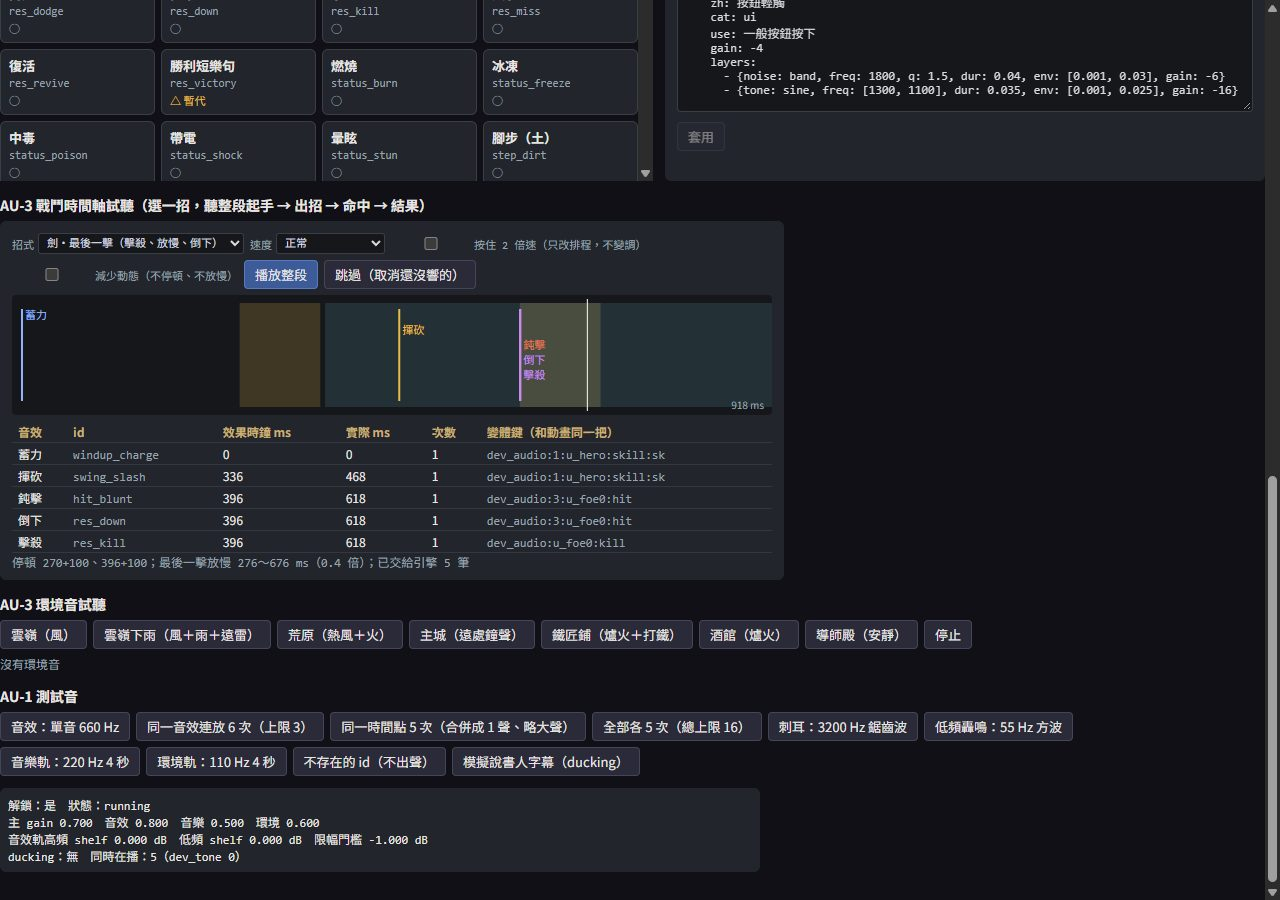
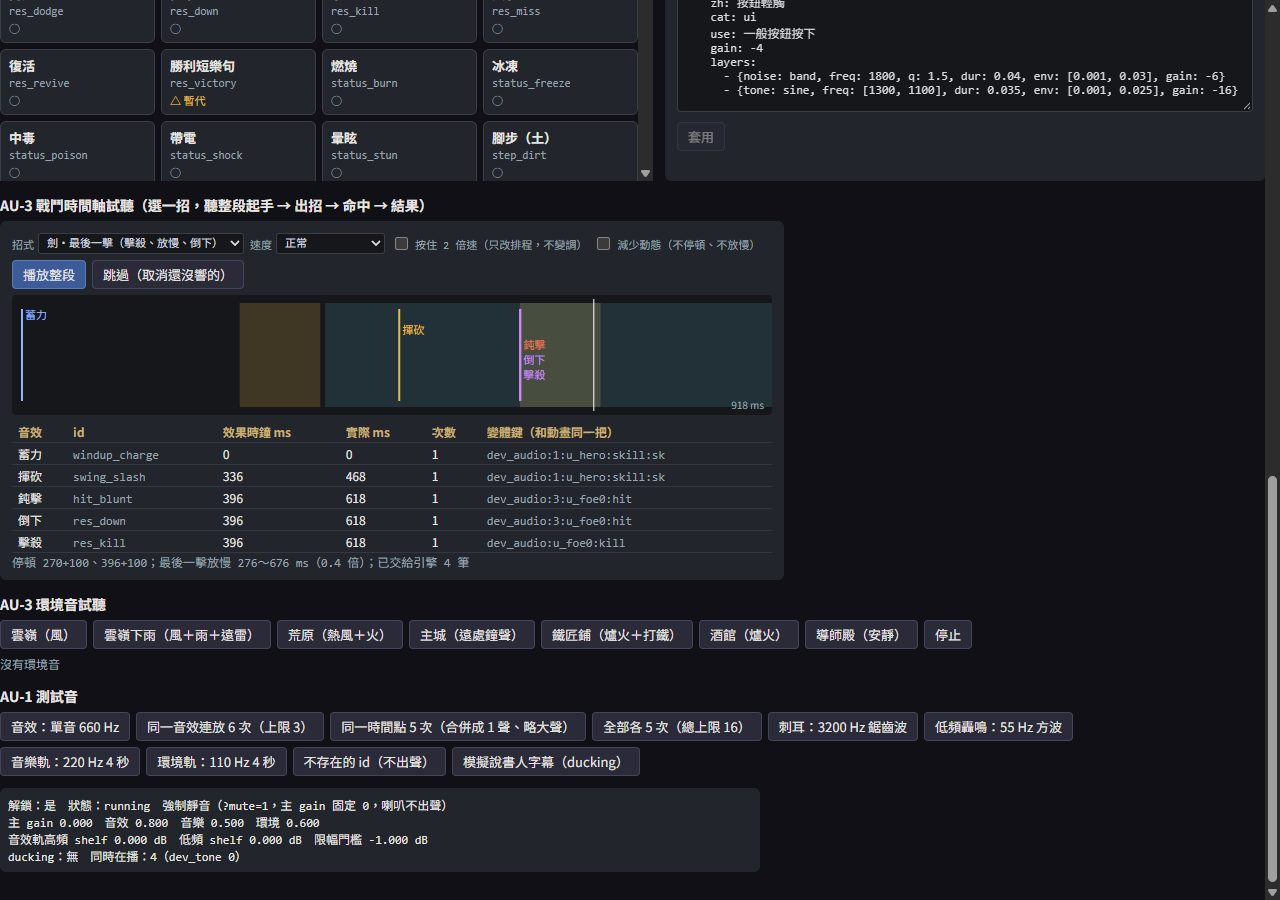
docs: AU-3 report (battle timeline sfx, footsteps, ambience)

Changed region(s): [[0.0, 0.2489, 0.5938, 0.3422], [0.125, 0.8711, 0.3438, 0.9022]]

diff --git a/docs/phases/PhaseAU-3報告.md b/docs/phases/PhaseAU-3報告.md
@@ -1,0 +1,145 @@
+# Phase AU-3 報告：接上戰鬥與探索
+
+實作者，2026-11-04。分支 `worktree-agent-a0b8205a897824fa9`，開工時 `git merge --ff-only 72848d18`（含 AU-2、6H-1、6R-F、RT-2）。
+規格：`docs/art/音效與音樂方案.md` 2.1、2.3、4 節；`docs/art/AU-2檢查.md` 的美術 PM 指示；派工六點。
+
+只改了 `client/` 與 `content/audio/sfx.yaml`（加 6 筆環境音、燃燒改成可循環的 3 秒版）。沒有改 Python、API、數值、規則；沒有新增相依；沒有外部素材；沒有 `Math.random`、不讀時鐘決定聲音內容；沒有原生 `title=`。
+**`WorldHud.tsx`、`WorldScreen.tsx` 沒有改**：環境音掛在 AU-2 已經掛在 WorldScreen 的 `useWorldSounds` 裡面。`content/llm` 沒碰。
+
+## 做了什麼
+
+| # | 項目 | 做法 | commit |
+|---|---|---|---|
+| 1 | 戰鬥音效掛 6N 時間軸 | `audio/battleSfx.ts`（純函式）：在 `playbackPlan` 裡和 `skillTimeline`／`withSpecials`／`withImpact` 同時算出這一步的音效，跟著播放速度縮放，放在 `Frame.sfx`（跟著 `playVfx`）與 `Frame.viewSfx`（畫面更新那一刻）。`usePlayback` 在 `playVfx` 同一刻交給排程 | e2362a4b |
+| | 停頓、最後一擊放慢對齊 | `cueRealMs`：效果時鐘 → 實際時間，加上命中前的停頓、放慢範圍用 6H-1 的 `slowRealMs` 拉長；命中聲在停住那一刻響。測試拿繪製器的 `advanceClock` 逐毫秒模擬比對（誤差 ≤ 2 ms）。減少動態時不停頓、不放慢，聲音也不等 | e2362a4b |
+| | 2 倍速不變調 | `audio/sfxScheduler.ts` 的 `CueScheduler`：只提前 120 ms 交給引擎，其餘留在清單裡由計時器補上；按住空白鍵時 `setBoost(2)`，已交給引擎還沒響的取消、照新倍率重排。**不碰 playbackRate** | e2362a4b |
+| | 跳過不補放 | 「略過」的播放計畫沒有音效；播放中按跳過 → `cancelAll()`：清單清空，已交給引擎、還沒開始的用新的 `engine.cancelPending("battle")` 斷開 | e2362a4b |
+| | 打 5 人不爆音 | 同一刻同一個音效在推導時就合併成一筆（`count`），引擎再照 AU-1 的合併規則略增音量（最多 1.45 倍）；加上每個 id 3 個、總數 16 個的上限與限幅 | e2362a4b |
+| 2 | 腳步聲依地表 | `audio/footsteps.ts`：表面（水、油、冰）→ 室內地板（木板、石板，照 6B-ART1 的房間配色）→ 地形（草、石、土；荒原的土＝沙）。戰鬥：`walkCues` 每一格開始踏一步，地表停頓放滑倒、陷阱、冒火。探索：`world/fieldSteps.ts`，`WorldField.tsx` 每走一格呼叫一次 | 90d55c0a |
+| 3 | 環境音 | `audio/ambience.ts`：`ambienceFor`（純函式）＋ `AmbienceDirector`（戰鬥優先、結束回到大世界）＋ `audio/loops.ts` 的 `LoopDeck`（循環槽，解鎖後才開始、減少刺耳音效切換時重開）。底聲 6 秒、前端交叉淡化 0.5 秒接成無縫循環（`makeLoopable`）；點綴的間隔照雜湊。地點只讀現有畫面資料 | 90d55c0a |
+| 4a | 取消、翻頁、學會一律 `data-sfx` | 24 顆按鈕加上明確的 `data-sfx`（見下方清單），文字判斷只剩退路 | 82bde444 |
+| 4b | 戰鬥按鈕 | 點擊音保留；滑過技能列本來就不出聲（全站只有 click 監聽，沒有 hover 音）。「結束回合」加 `data-sfx="ui_confirm"` | 82bde444 |
+| 4c | 勝利短樂句 | `EndPanel` 出現且 `winner === "ally"` 時放 `res_victory` | 82bde444 |
+| 4d | 燃燒循環全場一條 | `useBurnLoop`：畫面上有任何人燃燒（倒下的不算）就開一條 `status_burn` 循環（音效軌，×0.55），沒有就淡出；一個槽，不會疊 | 90d55c0a |
+| 5 | 戰鬥中的 ducking | **沒有接**：戰鬥畫面沒有說書人字幕或對話元件（WorldScreen 在戰鬥時直接換成 BattleScreen，大世界的 `NarratorSubtitle`／`StoryDialog` 不在畫面上）。之後戰鬥加了字幕，在元件裡呼叫 `useDuck(true)` 即可 | — |
+| 6 | dev 頁 | `audio-gallery.html` 加「AU-3 戰鬥時間軸試聽」（12 招可選；速度、按住 2 倍速、減少動態、播放整段、跳過）與「AU-3 環境音試聽」（7 個場景） | bfe724ab |
+| 追加 | `?mute=1` 強制靜音 | 協調者轉達使用者「測試聲音我會聽到」後加的：任何頁面網址帶 `?mute=1`，主 gain 固定 0、不寫進設定；節點與排程照常，可以用數值驗證。dev 頁狀態欄會顯示「強制靜音」 | fe64f9d1 |
+
+### 其他小改
+
+- `engine.ts`：`play` 多一個 `group` 選項、`cancelPending(group)`、`startLoop(id, opts)`、`setForcedMute`；`voices.ts` 記錄 `at` 與 `group`。
+- `sfxLibrary.ts`：音源加 `loop()`；循環與一次性的波形分開快取。
+- `skillSequence.ts`：`SkillSegment` 多一個 `seq`（音效的變體鍵要用）。
+- `synth.test.ts`：長度上限改成「環境音 6 秒、其他 3 秒」。
+
+## 檔案清單
+
+新增：`client/src/audio/battleSfx.ts`、`sfxScheduler.ts`、`footsteps.ts`、`ambience.ts`、`loops.ts`、`scene.ts`、`au3.test.ts`；`client/src/world/fieldSteps.ts`；`client/src/dev/audioTimeline.tsx`；`docs/art/au3_timeline_final.jpg`、`au3_timeline_sweep.jpg`；本報告。
+
+修改：`client/src/audio/types.ts`、`engine.ts`、`voices.ts`、`index.ts`、`fakeAudio.ts`、`sfxLibrary.ts`、`synth.test.ts`；`client/src/battle/playback.ts`、`skillSequence.ts`；`client/src/screens/battle/usePlayback.ts`、`screens/BattleScreen.tsx`（兩行 hook）；`client/src/ui/EndPanel.tsx`、`TurnControls.tsx`、`BattleTopBar.tsx`；`client/src/world/useWorldSounds.ts`、`WorldField.tsx`；`data-sfx` 的 20 個元件檔；`client/src/dev/audioGallery.tsx`、`client/audio-gallery.html`；`content/audio/sfx.yaml`。
+
+`data-sfx` 清單：
+- `ui_cancel`：營火技能照料的兩個「取消」、登入／大世界入口／角色選擇的「返回首頁」、新一輪「返回」、工坊「取消」×3、取消選取、取消施放、取消指令、取消選取（隊友指令）、取消指揮、取消灌注、取消報名、成長面板「取消」、錯誤／通知橫幅與區域圖／大世界圖的 ×、戰鬥頂端的返回鈕、完成獎勵選「跳過」時；
+- `ui_page`：聯賽上一頁、下一頁；
+- `ui_learn`：任務獎勵「學這招」、閃現「確定」、完成獎勵與升級畫面選了技能時的「確定」（沒選技能時是取消／確認）；
+- `ui_confirm`：結束回合。
+- **沒加的**：`WorldHud.tsx` 第 474 行的 ×（這個檔不能碰），照舊靠 aria-label／文字退路判斷成取消音。
+
+## 掛點對照表（事件 → 音效 → 時間點）
+
+時間都是效果時鐘（相對 `playVfx`），再由 `cueRealMs` 換成實際時間。
+
+| 類別 | 觸發 | 音效 | 時間點 |
+|---|---|---|---|
+| 起手 | 技能的起手片段（第一個不是原語的片段） | 近身＝`windup_charge`；法杖／法球／空手／魔導劍的遠程、自身、地面＝`windup_chant`；魔導劍遠程＝`windup_sigil` | 起手片段開始 |
+| 起手 | 弓的遠程／地面（普攻也有） | `windup_bow_draw` | 起手片段開始 |
+| 起手 | 弩、火槍的遠程／地面（普攻也有） | `windup_reload` | 起手片段開始 |
+| 出招 | 近身：劍、刀、斧、鐮、鞭、魔導劍 | `swing_slash` | 出招片段的 hitAt − 60 ms |
+| 出招 | 近身：槍 | `swing_thrust` | hitAt − 60 ms |
+| 出招 | 近身：拳套、空手、弓弩槍的槍托 | `swing_punch` | hitAt − 60 ms |
+| 出招 | 遠程：弓／弩／火槍 | `release_bow`／`release_crossbow`／`release_gun` | 出招片段的 hitAt（放出那一刻） |
+| 命中 | 受擊反應 `hit`／`heavy`／`down`，依元素：物理、土＝`hit_blunt`；火、冰、雷、水、毒、聖、暗、風＝`elem_*`（風用霧）；其他＝`hit_magic` | 同左 | 受擊反應的時間（＝命中點） |
+| 結果 | 格擋、閃避、倒下、復活（受擊反應） | `res_block`、`res_dodge`、`res_down`、`res_revive` | 命中點 |
+| 結果 | 6N-5 特殊結果：暴擊、擊殺 | `res_crit`、`res_kill` | 命中點（停住那一刻） |
+| 結果 | Boss 大招（6N-5） | `sys_boss_ult` | 出招開始 |
+| 結果 | 我方勝利 | `res_victory` | 結算畫面出現 |
+| 原語 | 卡上的部件：治療、護盾、召喚、刻符文、變身、放陷阱 | `prim_heal`、`prim_shield`、`prim_summon`、`prim_rune_carve`、`prim_transform`、`prim_rune_carve` | 那一段的命中點 |
+| 原語 | 位移：衝刺／跳躍／傳送、暗影步、交換 | `prim_dash`／`prim_land`／`prim_teleport` | 位移開始；跳躍在落地（位移結束） |
+| 原語 | 符文引爆（blasts） | `prim_rune_burst` | 引爆的時間 |
+| 狀態 | `status_applied`：冰凍、中毒、暈眩、帶電 | `status_freeze`、`status_poison`、`status_stun`、`status_shock` | 目標的受擊時間 |
+| 狀態 | 燃燒（畫面上有人在燒） | `status_burn` 循環，全場一條 | 持續 |
+| 地表 | `surface_changed`（`cause: effect`）出現火、冰、水、油、毒、聖、暗、煙 | `elem_*` | 命中點 |
+| 地表 | `surface_changed` 其他原因變成火（蔓延） | `surface_fire_spread` | 命中點 |
+| 地表 | 走路時的地表停頓：踉蹌／滑倒、陷阱、冒火、油 | `surface_slip`、`surface_trap`、`elem_fire`、`elem_water` | 停頓開始 |
+| 爆炸 | `object_exploded`、`bomb_exploded`、符文引爆的 impact | `explosion` | 命中點 |
+| 腳步 | 走路的每一格 | `step_*`（依地表） | 每一格開始 |
+| 系統 | `round_started` | `sys_round_start` | 畫面更新 |
+| 系統 | Boss 的 `followup_charged` | `sys_boss_warn` | 畫面更新 |
+| 系統 | AI 行動完、輪回我方 | `sys_my_turn` | 播放結束 |
+
+變體鍵：出招類用 `skillVariant.key`／`battleVariantKey`／`skillVariantKey`，受擊類用 `reactVariantKey`，和動畫同一把；腳步用「地圖:x,y:第幾步」。
+
+## 環境音對照表
+
+| 地點 | 底聲（循環，環境軌） | 點綴 |
+|---|---|---|
+| 雲嶺室外 | 風 `amb_wind` | — |
+| 荒原室外 | 熱風 `amb_wind_hot`＋火 `amb_fire` ×0.5 | — |
+| 霜潮室外（之後） | 風 | — |
+| 主城室外 | — | 遠處鐘聲 `amb_bell`，約每 24±6 秒 |
+| 室外街上有鐵匠鋪 | — | 打鐵 `amb_forge`（遠），約每 7±2 秒 |
+| 戰場有岩漿 | 火 ×0.5 | — |
+| 雨天（室外） | ＋雨 `amb_rain` | ＋遠雷 `amb_thunder`，約每 22±8 秒 |
+| 室內：鐵匠鋪、附魔台 | 爐火 ×0.8 | 打鐵，約每 3.6±0.9 秒 |
+| 室內：酒館 | 爐火 ×0.55 | — |
+| 室內：其他（導師殿、一般屋子） | 安靜 | — |
+
+- 資料來源：大世界＝`view.field` 的 `region`、`interior`、`facilities`，加上 `clock.weather_zh` 含「雨」；戰鬥＝`BattleView.region`、`weather_id === "rain"`、有沒有 `lava` 地形。沒有新增伺服器欄位。
+- 減少刺耳音效開啟時，`harsh` 的遠雷、打鐵不出聲（引擎擋）；底聲照常。
+
+## 測試
+
+- 新增 `src/audio/au3.test.ts` 共 29 項：
+  - 時間點對齊：近身咻＝hitAt − 60、命中＝hitAt；起手；弓；起手音對照；停頓與放慢和 `advanceClock` 一致；快速播放縮放；
+  - 跳過時不放音；
+  - 2 倍速時排程減半、playbackRate 都是 1，中途加速重排；
+  - 同一個鍵同一個變體；
+  - 打 5 人合併、不超過上限；
+  - 腳步依地表、戰鬥走路的時間；
+  - 環境音依區域、天氣、室內挑選；導演的優先順序；
+  - 減少刺耳音效時 `harsh` 不放；
+  - `?mute=1`；循環槽、燃燒、接縫連續；事件 → 音效。
+- 交件前跑一次 client 全部 vitest：**223 個檔案、2450 項，2448 過、2 項逾時**（`cleanup6rf.test.ts` 掃整個原始碼、`inkCreature.test.ts` 全組合自測，都超過 5 秒）。這兩個檔單獨用 `--testTimeout 60000` 重跑：22 項全過，4.6 秒。兩個檔和這段無關，逾時是因為機器負載。
+- `corepack pnpm -C client build`：結束碼 0。
+- Python `tests/content/test_audio_sfx.py`：19 passed（新的 6 筆環境音通過 schema）。
+
+## 實機
+
+- 自己的伺服器：vite 5381（5377 已被別的程序占用）、後端 8377（`TRPG_SAVE_DIR` 在 scratchpad），沒碰 `saves/`、`tmp_x`。自己的無頭 Chrome（CDP 9381，自己的設定檔）。全部用 TaskStop 和自己的 PID 結束。
+- 驗證方式：在無頭 Chrome 注入一段只記錄 `AudioBufferSourceNode.start` 的腳本（不改遊戲程式），看時間、長度、loop 與 playbackRate：
+  - 實戰（一鍵開局，雲海吊橋）：風的循環 1 條（5.5 秒）、回合開始鐘、揮砍、命中、石地腳步都有排上；提前量 0～120 ms；**playbackRate 全部是 1**；沒有錯誤；
+  - 大世界（霧渡鎮）：風的循環 1 條；走路每格一聲石地腳步。
+- **聲音外洩**：前半段實測用的無頭 Chrome 沒有加 `--mute-audio`，使用者聽到了測試聲音。收到通知後立刻用自己的 PID 停掉，之後改成 `--mute-audio` 加網址 `?mute=1` 重開，截圖時已經不出聲。
+- 截圖（`?mute=1`）：
+  - `docs/art/au3_timeline_final.jpg`：最後一擊，可以看到停頓、放慢範圍，以及效果時鐘和實際時間的對照；
+  - `docs/art/au3_timeline_sweep.jpg`：橫掃 5 人，鈍擊 ×5 合併，按住 2 倍速；環境音試聽「雲嶺下雨」。
+- 我手誤在 `F:/tmp_au3_edit.cjs` 建了一個空檔（0 bytes）。刪除指令被安全檢查擋下，請使用者自己刪。
+
+## noqa
+
+沒有新增（前端沒有 ruff）。
+
+## 待 PM 決定（都已照最保守的做法做完）
+
+1. **6H-1 的 `impacts` 沒有跟著技能時間軸移動（找到的既有問題，沒有修）**：`skillSequence.retime` 會移動 casts、hits、reactions、blasts，但沒有移動 `impacts`。所以有技能時間軸時，分級停頓與重擊微震落在「還沒對齊的命中點」，比受擊早。例如試聽頁的劍：停頓在 270 ms，命中在 396 ms。聲音照實際的停頓排，所以和畫面一致，但畫面本身的停頓早了。建議排一小段修 `retime`（把 `impacts` 照 `shift` 移），屬於動畫範圍。
+2. **直線、錐形這類近身技能**：咻照出招片段的 hitAt − 60；命中照特效真的打到的時間（光束飛過去），所以兩者會差超過 60 ms（試聽頁橫掃：336 和 546）。我照「命中聲跟著畫面」做。
+3. **近身普攻沒有起手音**：只有咻＋命中，免得每下普攻都嗡一聲；遠程武器的拉弓、上膛普攻照放。
+4. **擊殺同時放 `res_kill` 和 `res_down`**：擊殺是低頻落下，倒下是悶響，同一刻疊兩聲。要不要只留一個？
+5. **勝利短樂句放在結算畫面出現時**，不在 6N-5 的勝利動畫開始時；略過播放時結算畫面照樣會放（它屬於結算畫面，不是補放）。
+6. **打鐵標成 `harsh`**：金屬聲偏尖，所以減少刺耳音效開啟時不出聲，只剩爐火。
+7. **室內聽不到雨**；主城室外沒有風，只有鐘聲。
+8. **燃燒循環音量 ×0.55**，放在音效軌（會被減少刺耳音效改成柔和版）。`status_burn` 改成 3 秒、不衰減的版本，不再當一次性音效使用。
+9. **環境音的數值都是原型**：鐘每 24±6 秒、打鐵每 3.6±0.9 秒（街上 7±2）、遠雷每 22±8 秒；底聲音量 0.5～1。
+10. **輪到我方的提示音**：條件是「這次回應開始時不是主角、結束時輪到主角」，主角自己行動後不會響。
+11. **`?mute=1`** 對所有頁面都有效（正式遊戲也可以用），不寫進設定、不存檔。之後的預覽、截圖、自動化驗證請一律加上，無頭 Chrome 加 `--mute-audio`。
+12. **戰鬥中的 ducking 沒有接**（理由見上方第 5 項）。音樂軌第一階段也沒有音源。
